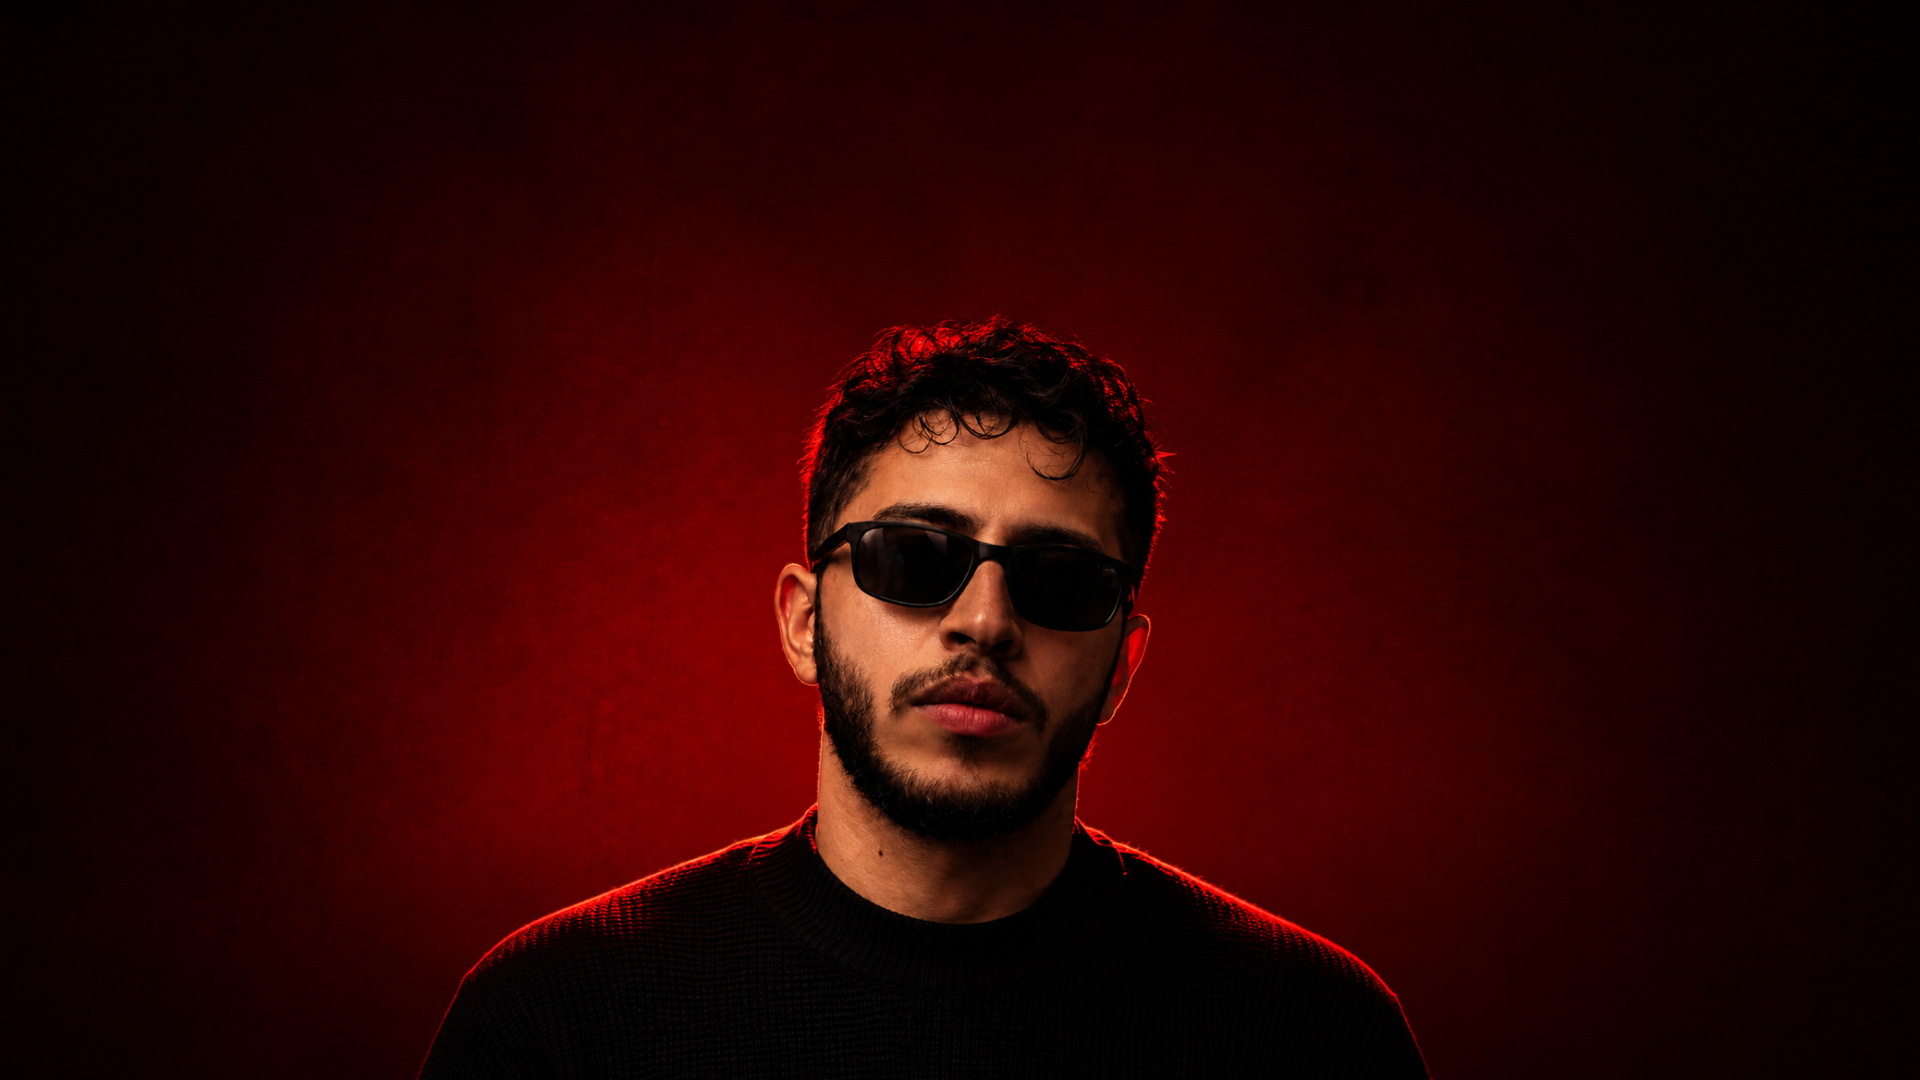
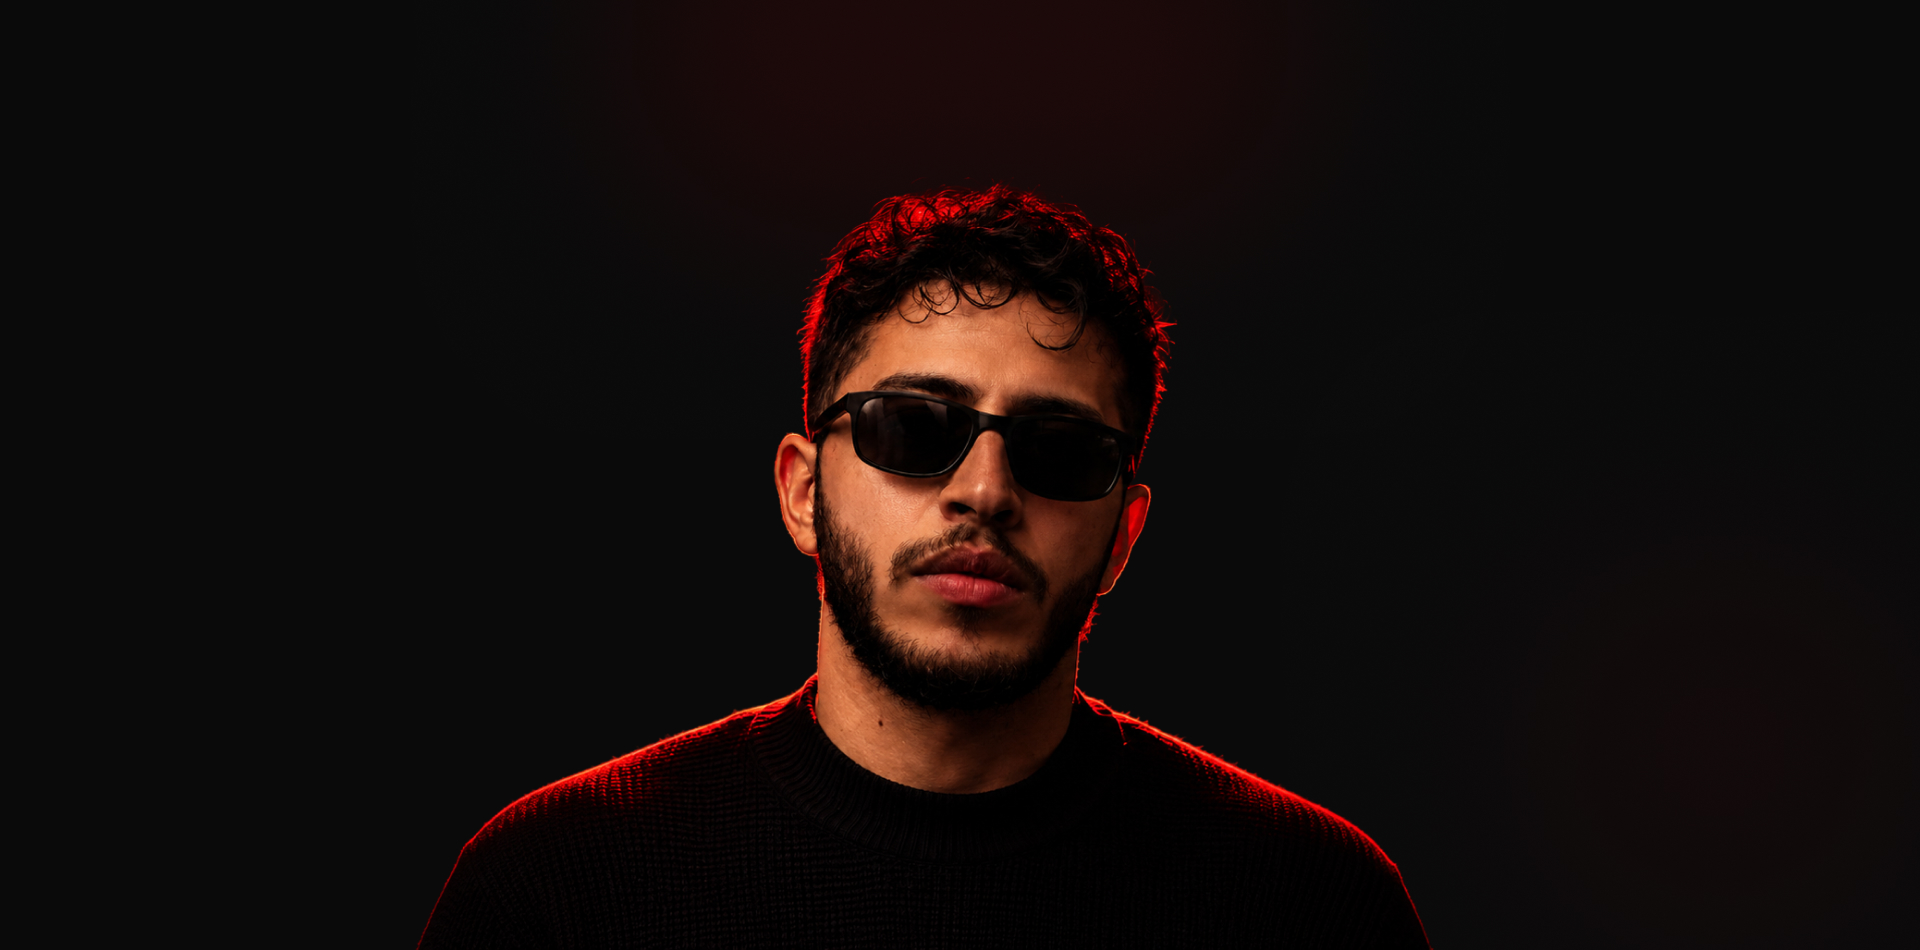
Refactor code structure for improved readability and maintainability

diff --git a/src/components/HeroSection.jsx b/src/components/HeroSection.jsx
@@ -8,25 +8,41 @@ export default function HeroSection() {
 
   useEffect(() => {
     const canvas = canvasRef.current;
-    const ctx = canvas.getContext("2d");
+    const ctx = canvas.getContext("2d", { willReadFrequently: false });
 
     const topImg = new Image();
     const bottomImg = new Image();
 
     const particles = [];
+    const trailPoints = [];
 
     const mouse = {
       x: 0,
       y: 0,
-      moving: false,
+      prevX: 0,
+      prevY: 0,
+      vx: 0,
+      vy: 0,
     };
 
     let animationId;
+    let lastTime = 0;
+
+    // Parameters (tuned from your specs)
+    const params = {
+      radius: 75,
+      strength: 0.92,        // 80 -> normalized
+      hardness: 0.35,        // controls gradient falloff
+      tail: 140,              // max trail length
+      fluidity: 0.70,        // lerp speed
+      dissipation: 0.018,    // base fade per frame
+      chromatic: 56,         // subtle color shift on edges (0-100)
+      momentum: 0.62,        // mouse velocity influence
+    };
 
     //--------------------------------------------------
     // Resize
     //--------------------------------------------------
-
     function resize() {
       canvas.width = window.innerWidth;
       canvas.height = window.innerHeight;
@@ -35,119 +51,152 @@ export default function HeroSection() {
     //--------------------------------------------------
     // Particle
     //--------------------------------------------------
-
-    function createParticle(x, y) {
+    function createParticle(x, y, vx, vy) {
+      const spread = 12;
       particles.push({
-        x,
-        y,
-
-        vx: (Math.random() - 0.5) * 0.8,
-        vy: (Math.random() - 0.5) * 0.8,
-
-        radius: 45 + Math.random() * 40,
-
-        alpha: 1,
-
-        shrink: 0.15 + Math.random() * 0.15,
-
-        fade: 0.008 + Math.random() * 0.01,
+        x: x + (Math.random() - 0.5) * spread,
+        y: y + (Math.random() - 0.5) * spread,
+        vx: vx * (0.6 + Math.random() * 0.8),
+        vy: vy * (0.6 + Math.random() * 0.8),
+        radius: params.radius * (0.6 + Math.random() * 0.8),
+        alpha: 0.95 + Math.random() * 0.05,
+        life: 1.0,
+        shrink: 0.08 + Math.random() * 0.12,
       });
+    }
+
+    //--------------------------------------------------
+    // Draw Reveal Brush
+    //--------------------------------------------------
+    function drawRevealBrush(x, y, radius, alpha) {
+      const grad = ctx.createRadialGradient(x, y, radius * params.hardness, x, y, radius);
+
+      // Core erase
+      grad.addColorStop(0, `rgba(0,0,0,${alpha * params.strength})`);
+      grad.addColorStop(0.45, `rgba(0,0,0,${alpha * params.strength * 0.75})`);
+      grad.addColorStop(0.85, `rgba(0,0,0,${alpha * 0.15})`);
+      grad.addColorStop(1, "rgba(0,0,0,0)");
+
+      ctx.fillStyle = grad;
+      ctx.beginPath();
+      ctx.arc(x, y, radius, 0, Math.PI * 2);
+      ctx.fill();
+
+      // Optional chromatic edge (subtle glow)
+      if (params.chromatic > 10) {
+        ctx.save();
+        ctx.globalAlpha = alpha * (params.chromatic / 300);
+        const chromaGrad = ctx.createRadialGradient(x - 4, y - 4, radius * 0.6, x + 6, y + 6, radius * 1.1);
+        chromaGrad.addColorStop(0, "rgba(255,80,200,0.6)");
+        chromaGrad.addColorStop(1, "rgba(80,180,255,0)");
+        ctx.fillStyle = chromaGrad;
+        ctx.beginPath();
+        ctx.arc(x, y, radius * 1.05, 0, Math.PI * 2);
+        ctx.fill();
+        ctx.restore();
+      }
     }
 
     //--------------------------------------------------
     // Animation
     //--------------------------------------------------
+    function animate(timestamp) {
+      if (!lastTime) lastTime = timestamp;
+      const dt = Math.min((timestamp - lastTime) / 16, 2.5); // frame time normalization
+      lastTime = timestamp;
 
-    function animate() {
       ctx.clearRect(0, 0, canvas.width, canvas.height);
 
-      //------------------------------------------------
-      // Draw TOP image
-      //------------------------------------------------
-
+      // Draw top image
       ctx.globalCompositeOperation = "source-over";
-
       ctx.drawImage(topImg, 0, 0, canvas.width, canvas.height);
 
-      //------------------------------------------------
-      // Erase using smoke
-      //------------------------------------------------
-
+      // Reveal using destination-out
       ctx.globalCompositeOperation = "destination-out";
 
+      // Update & draw trail points
+      for (let i = trailPoints.length - 1; i >= 0; i--) {
+        const p = trailPoints[i];
+        p.life -= params.dissipation * dt * 1.1;
+        if (p.life <= 0) {
+          trailPoints.splice(i, 1);
+          continue;
+        }
+
+        const alpha = p.life * p.life; // quadratic fade
+        drawRevealBrush(p.x, p.y, p.radius * p.life * 0.95, alpha);
+      }
+
+      // Update & draw dynamic particles
       for (let i = particles.length - 1; i >= 0; i--) {
         const p = particles[i];
 
-        p.x += p.vx;
-        p.y += p.vy;
+        p.x += p.vx * dt;
+        p.y += p.vy * dt;
+        p.vx *= 0.96;
+        p.vy *= 0.96;
+        p.life -= params.dissipation * 1.4 * dt;
+        p.radius += p.shrink * dt;
 
-        p.radius += p.shrink;
-
-        p.alpha -= p.fade;
-
-        if (p.alpha <= 0) {
+        if (p.life <= 0) {
           particles.splice(i, 1);
           continue;
         }
 
-        ctx.globalAlpha = p.alpha;
-
-        const gradient = ctx.createRadialGradient(
-          p.x,
-          p.y,
-          p.radius * 0.15,
-          p.x,
-          p.y,
-          p.radius
-        );
-
-        gradient.addColorStop(0, "rgba(0,0,0,1)");
-        gradient.addColorStop(0.4, "rgba(0,0,0,0.7)");
-        gradient.addColorStop(0.75, "rgba(0,0,0,0.25)");
-        gradient.addColorStop(1, "rgba(0,0,0,0)");
-
-        ctx.fillStyle = gradient;
-
-        ctx.beginPath();
-        ctx.arc(p.x, p.y, p.radius, 0, Math.PI * 2);
-        ctx.fill();
+        const alpha = p.life * 0.9;
+        drawRevealBrush(p.x, p.y, p.radius, alpha);
       }
 
       ctx.globalAlpha = 1;
-
       animationId = requestAnimationFrame(animate);
     }
 
     //--------------------------------------------------
-    // Mouse
+    // Mouse Trail Handler
     //--------------------------------------------------
-
     function handleMove(e) {
       const rect = canvas.getBoundingClientRect();
+      const newX = e.clientX - rect.left;
+      const newY = e.clientY - rect.top;
 
-      mouse.x = e.clientX - rect.left;
-      mouse.y = e.clientY - rect.top;
+      // Momentum / velocity
+      mouse.vx = (newX - mouse.prevX) * params.momentum;
+      mouse.vy = (newY - mouse.prevY) * params.momentum;
 
-      for (let i = 0; i < 6; i++) {
-        createParticle(
-          mouse.x + (Math.random() - 0.5) * 30,
-          mouse.y + (Math.random() - 0.5) * 30
-        );
+      mouse.prevX = mouse.x;
+      mouse.prevY = mouse.y;
+      mouse.x = newX;
+      mouse.y = newY;
+
+      // Add to persistent trail
+      trailPoints.push({
+        x: mouse.x,
+        y: mouse.y,
+        radius: params.radius * (0.9 + Math.random() * 0.2),
+        life: 1.0,
+      });
+
+      // Limit trail length
+      if (trailPoints.length > params.tail) {
+        trailPoints.shift();
+      }
+
+      // Emit burst of particles (fluid feel)
+      const emitCount = 4 + Math.floor(Math.random() * 3);
+      for (let i = 0; i < emitCount; i++) {
+        createParticle(mouse.x, mouse.y, mouse.vx * 0.8, mouse.vy * 0.8);
       }
     }
 
     //--------------------------------------------------
     // Load images
     //--------------------------------------------------
-
     let loaded = 0;
-
     function imageLoaded() {
       loaded++;
-
       if (loaded === 2) {
         resize();
-        animate();
+        animate(0);
       }
     }
 
@@ -160,38 +209,42 @@ export default function HeroSection() {
     //--------------------------------------------------
     // Events
     //--------------------------------------------------
-
     canvas.addEventListener("mousemove", handleMove);
-
     window.addEventListener("resize", resize);
+
+    // Touch support
+    canvas.addEventListener("touchmove", (e) => {
+      e.preventDefault();
+      const touch = e.touches[0];
+      const fakeEvent = { clientX: touch.clientX, clientY: touch.clientY };
+      handleMove(fakeEvent);
+    }, { passive: false });
 
     //--------------------------------------------------
     // Cleanup
     //--------------------------------------------------
-
     return () => {
       cancelAnimationFrame(animationId);
-
       canvas.removeEventListener("mousemove", handleMove);
-
       window.removeEventListener("resize", resize);
     };
   }, []);
 
   return (
     <div className="relative h-screen w-full overflow-hidden">
-      {/* Bottom image */}
+      {/* Background / Reveal Image */}
       <img
         src={revealImage}
         alt=""
-        className="absolute h-full w-full"
+        className="absolute inset-0 h-full w-full object-cover"
         draggable={false}
       />
 
-      {/* Top image mask */}
+      {/* Top Image + Interactive Canvas Mask */}
       <canvas
         ref={canvasRef}
-        className="absolute h-full w-full"
+        className="absolute inset-0 h-full w-full "
+        style={{ mixBlendMode: "normal" }}
       />
     </div>
   );
